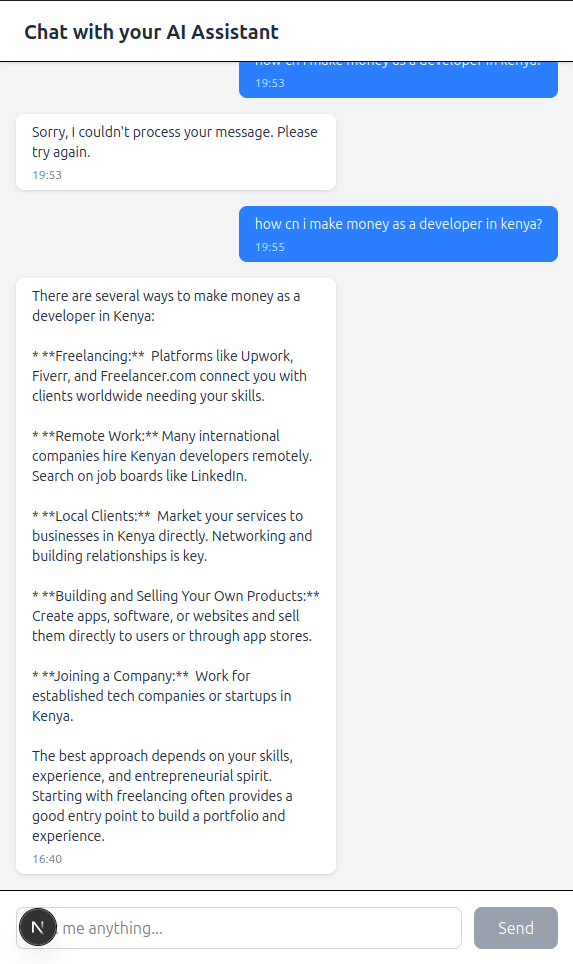
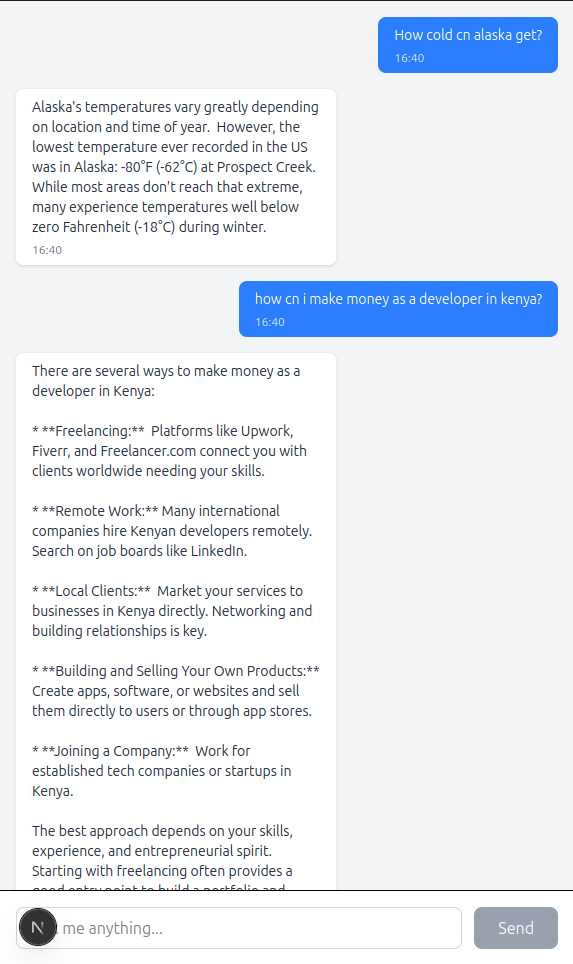
Added geting chat history

Changed region(s): [[0.0593, 0.0, 0.9791, 0.9336]]

diff --git a/frontend/chat-app/src/components/ChatInterface.jsx b/frontend/chat-app/src/components/ChatInterface.jsx
@@ -1,10 +1,35 @@
 import React from 'react'
-import { useState } from 'react'
+import { useState, useEffect } from 'react'
 
 function ChatInterface() {
     const [messages, setMessages] = useState([]);
     const [input, setInput] = useState('');
     const [isLoading, setIsLoading] = useState(false);
+    const [isLoadingHistory, setIsLoadingHistory] = useState(true);
+
+    // Fetch chat history on page load
+    useEffect(() => {
+        const fetchChatHistory = async () => {
+            try {
+                const response = await fetch('http://127.0.0.1:8000/chat/history');
+                if (response.ok) {
+                    const history = await response.json();
+                    setMessages(history);
+
+                } else {
+                    console.error('Failed to fetch chat history');
+
+                }
+            } catch (error) {
+                console.error('Error fetching chat history:', error);
+
+            } finally {
+                setIsLoadingHistory(false);
+            }
+        };
+
+        fetchChatHistory();
+    }, []);
 
     const sendMessage = async () => {
         if (input.trim() && !isLoading) {
@@ -78,16 +103,23 @@ function ChatInterface() {
 
     return (
         <div className="flex flex-col h-screen bg-gray-100">
-            <div className="bg-white shadow-sm border-b px-6 py-4">
-                <h1 className="text-xl font-semibold text-gray-800">Chat with your AI Assistant</h1>
-            </div>
+
 
             <div className="flex-1 overflow-y-auto p-4 space-y-4">
-                {messages.length === 0 && (
+                {isLoadingHistory ? (
+                    <div className="text-center text-gray-500 mt-8">
+                        <div className="flex items-center justify-center space-x-2">
+                            <div className="w-4 h-4 bg-gray-400 rounded-full animate-bounce"></div>
+                            <div className="w-4 h-4 bg-gray-400 rounded-full animate-bounce" style={{ animationDelay: '0.1s' }}></div>
+                            <div className="w-4 h-4 bg-gray-400 rounded-full animate-bounce" style={{ animationDelay: '0.2s' }}></div>
+                            <p className="ml-2">Loading chat history...</p>
+                        </div>
+                    </div>
+                ) : messages.length === 0 ? (
                     <div className="text-center text-gray-500 mt-8">
                         <p>Start a conversation with the AI, Ask me something!</p>
                     </div>
-                )}
+                ) : null}
 
                 {messages.map((message) => (
                     <div
